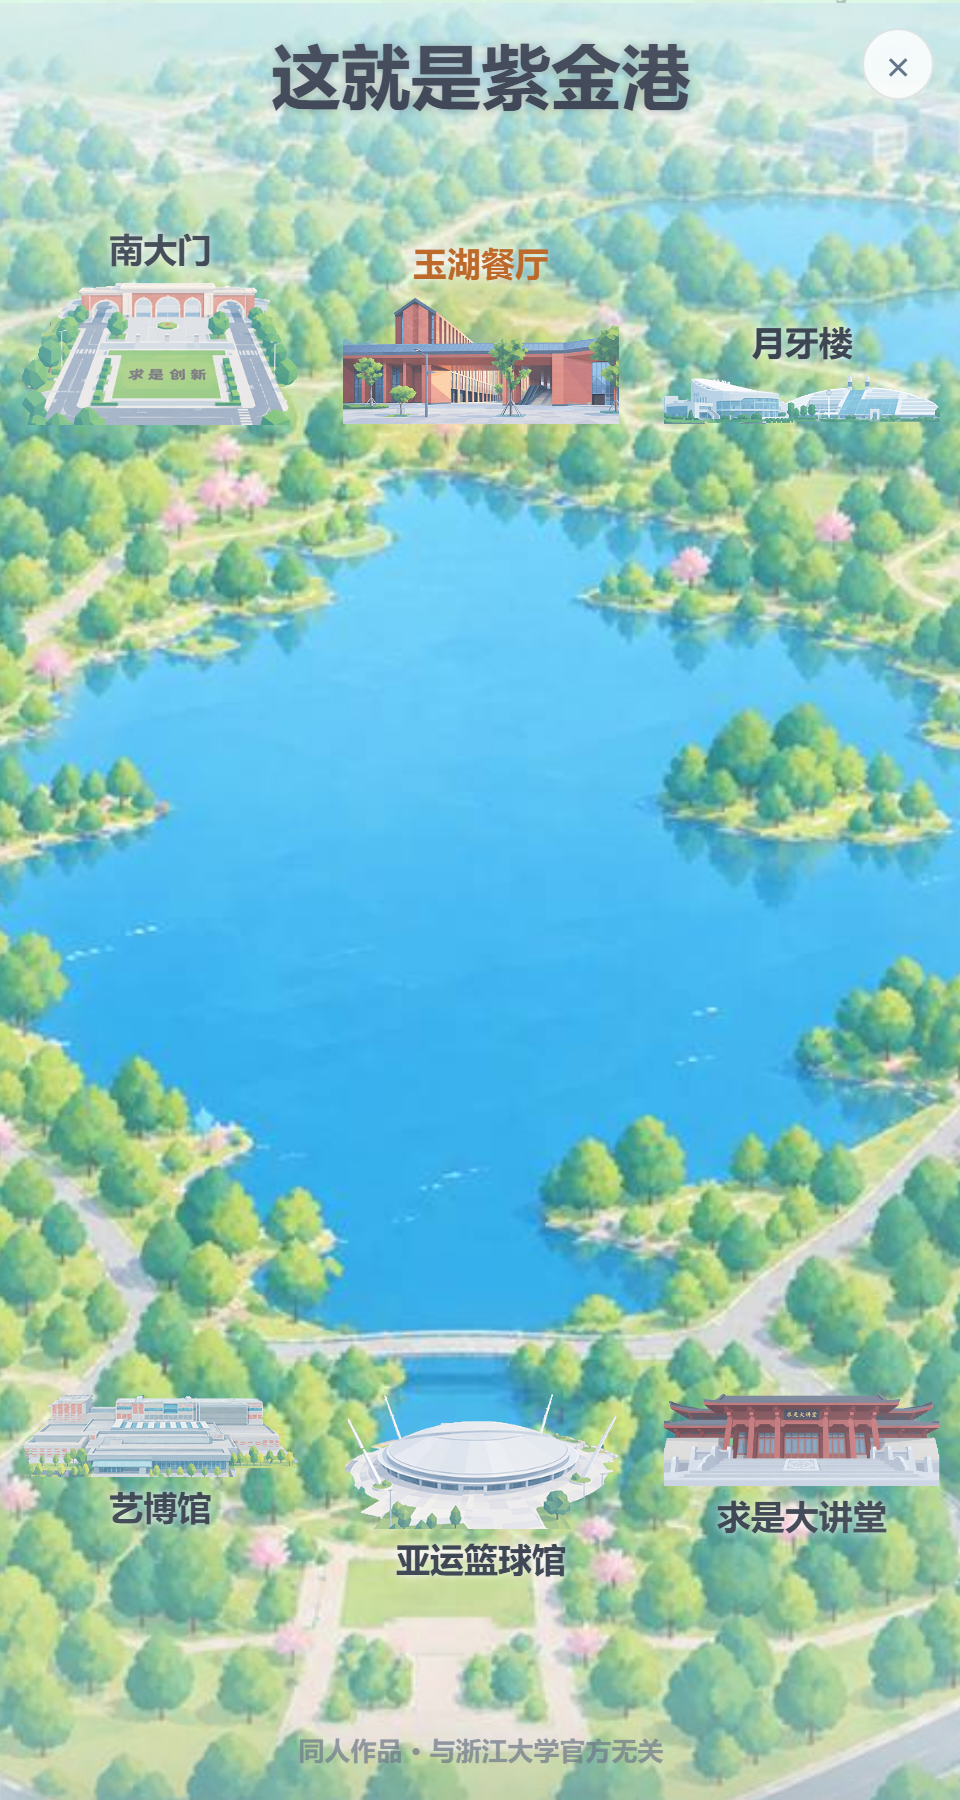
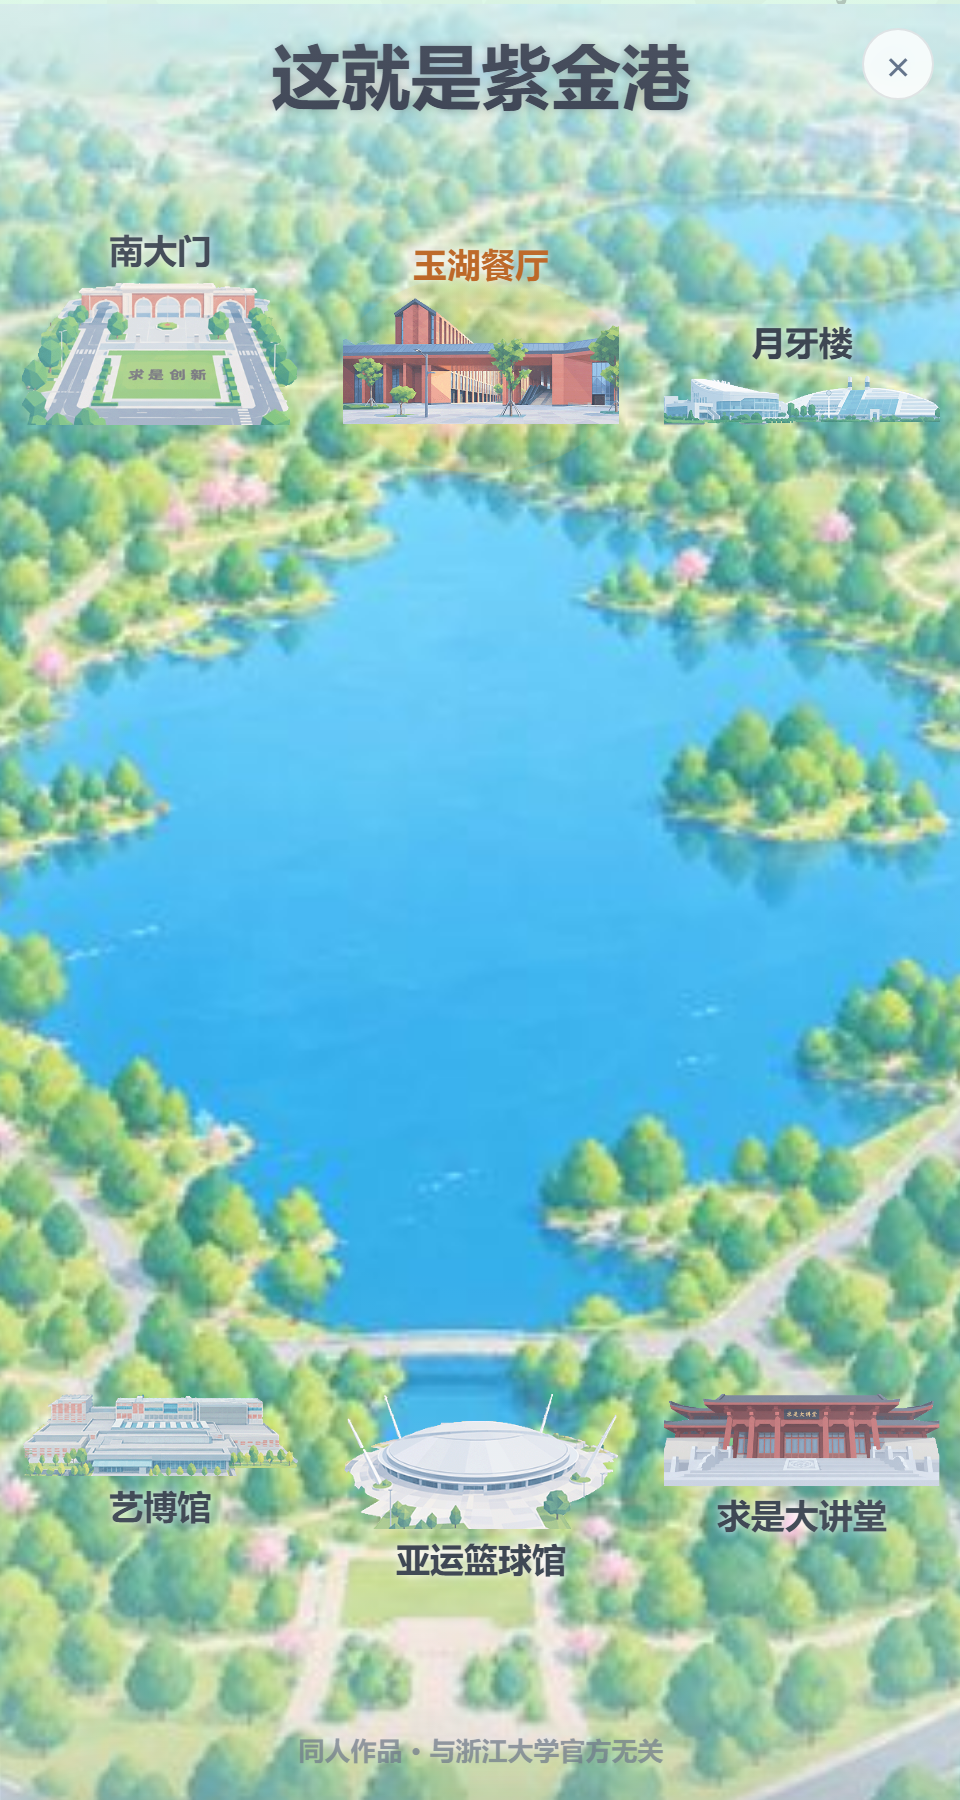
彩蛋：四张湖图重出一套尺寸（600x482），彻底消除 3→4 的位置跳动
- 之前四张图分辨率各不相同（700/540/540/1000），宽高比有 0.09% 差异，叠在一起会有细微错位
- 现在统一从 1399x1124 原图重采样到 600x482，四张完全同一坐标系
- 3→4 的淡入改成不重叠：图3 在 0.33 到位，图4 从 0.34 才开始
- 素材合计 870KB（原来 1.06MB）

diff --git a/render/finale.js b/render/finale.js
@@ -45,7 +45,7 @@
     title: 0.93
   };
   // 四张湖图各自的淡入起点 / 时长
-  var LAKE_TL = [[0.02, 0.10], [0.10, 0.10], [0.19, 0.10], [0.27, 0.12]];
+  var LAKE_TL = [[0.02, 0.10], [0.11, 0.11], [0.21, 0.12], [0.34, 0.12]];
 
   var BASE = "../assets/finale/";
   var cache = null;
